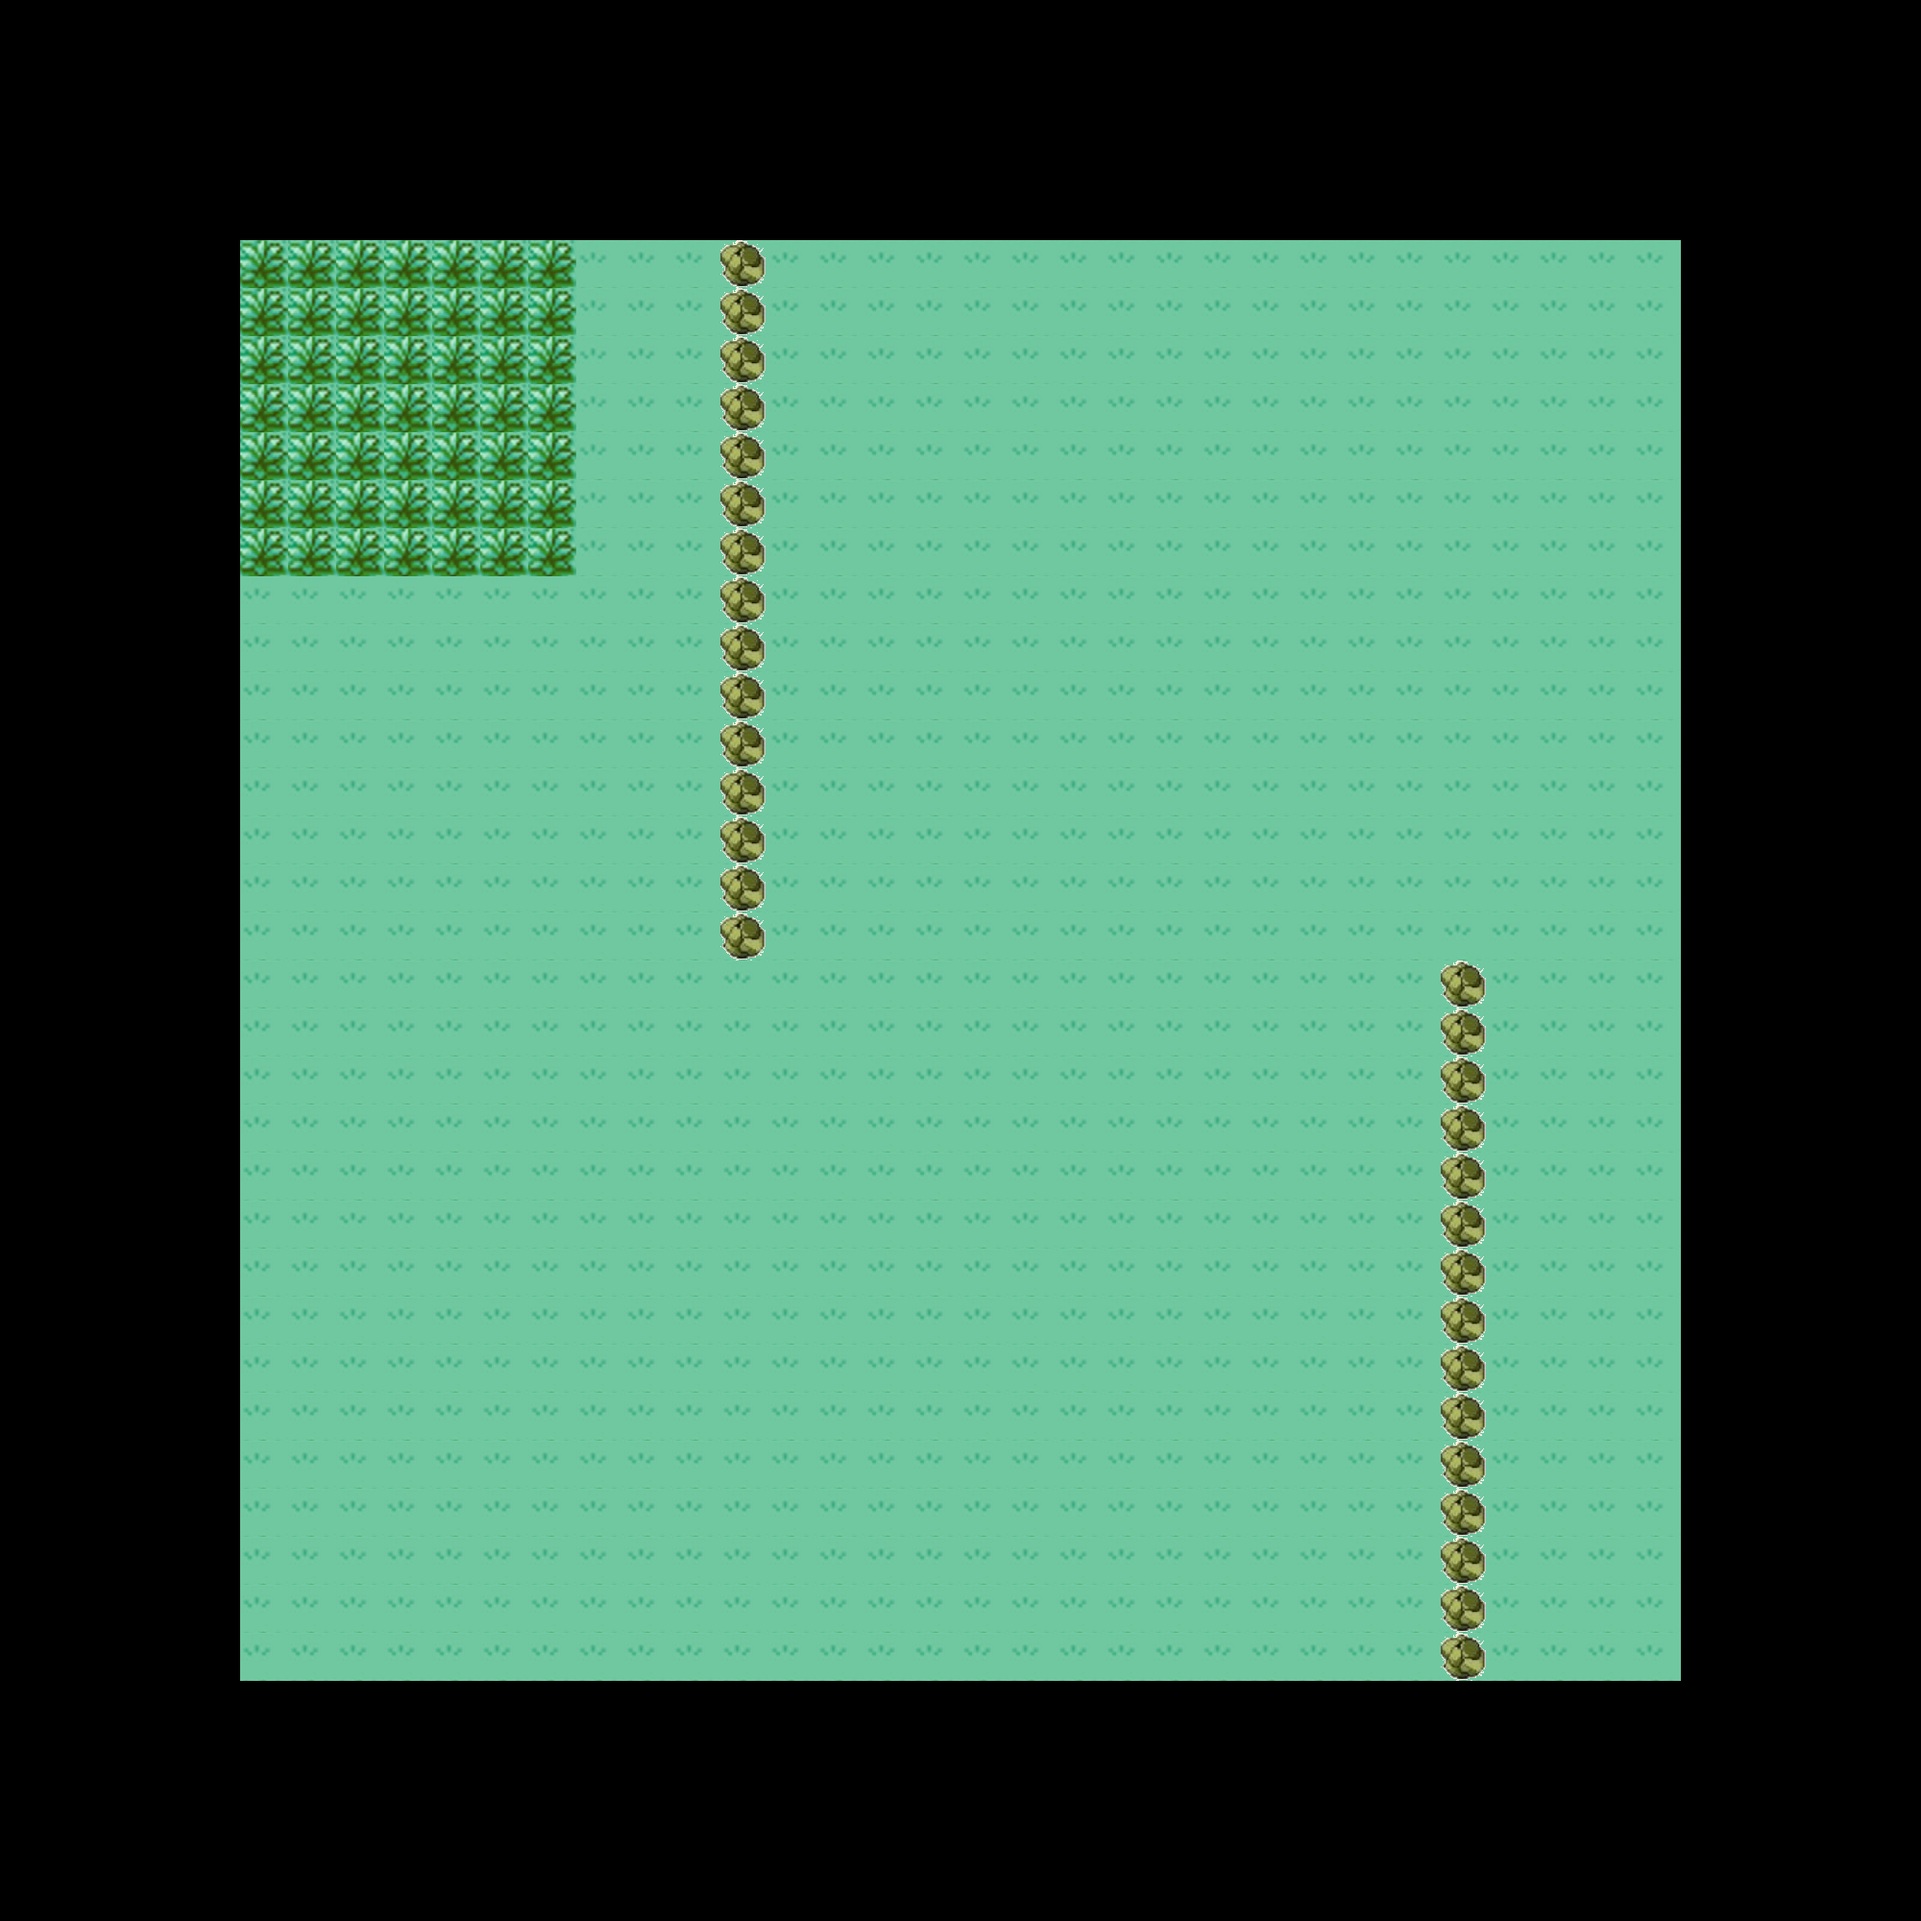
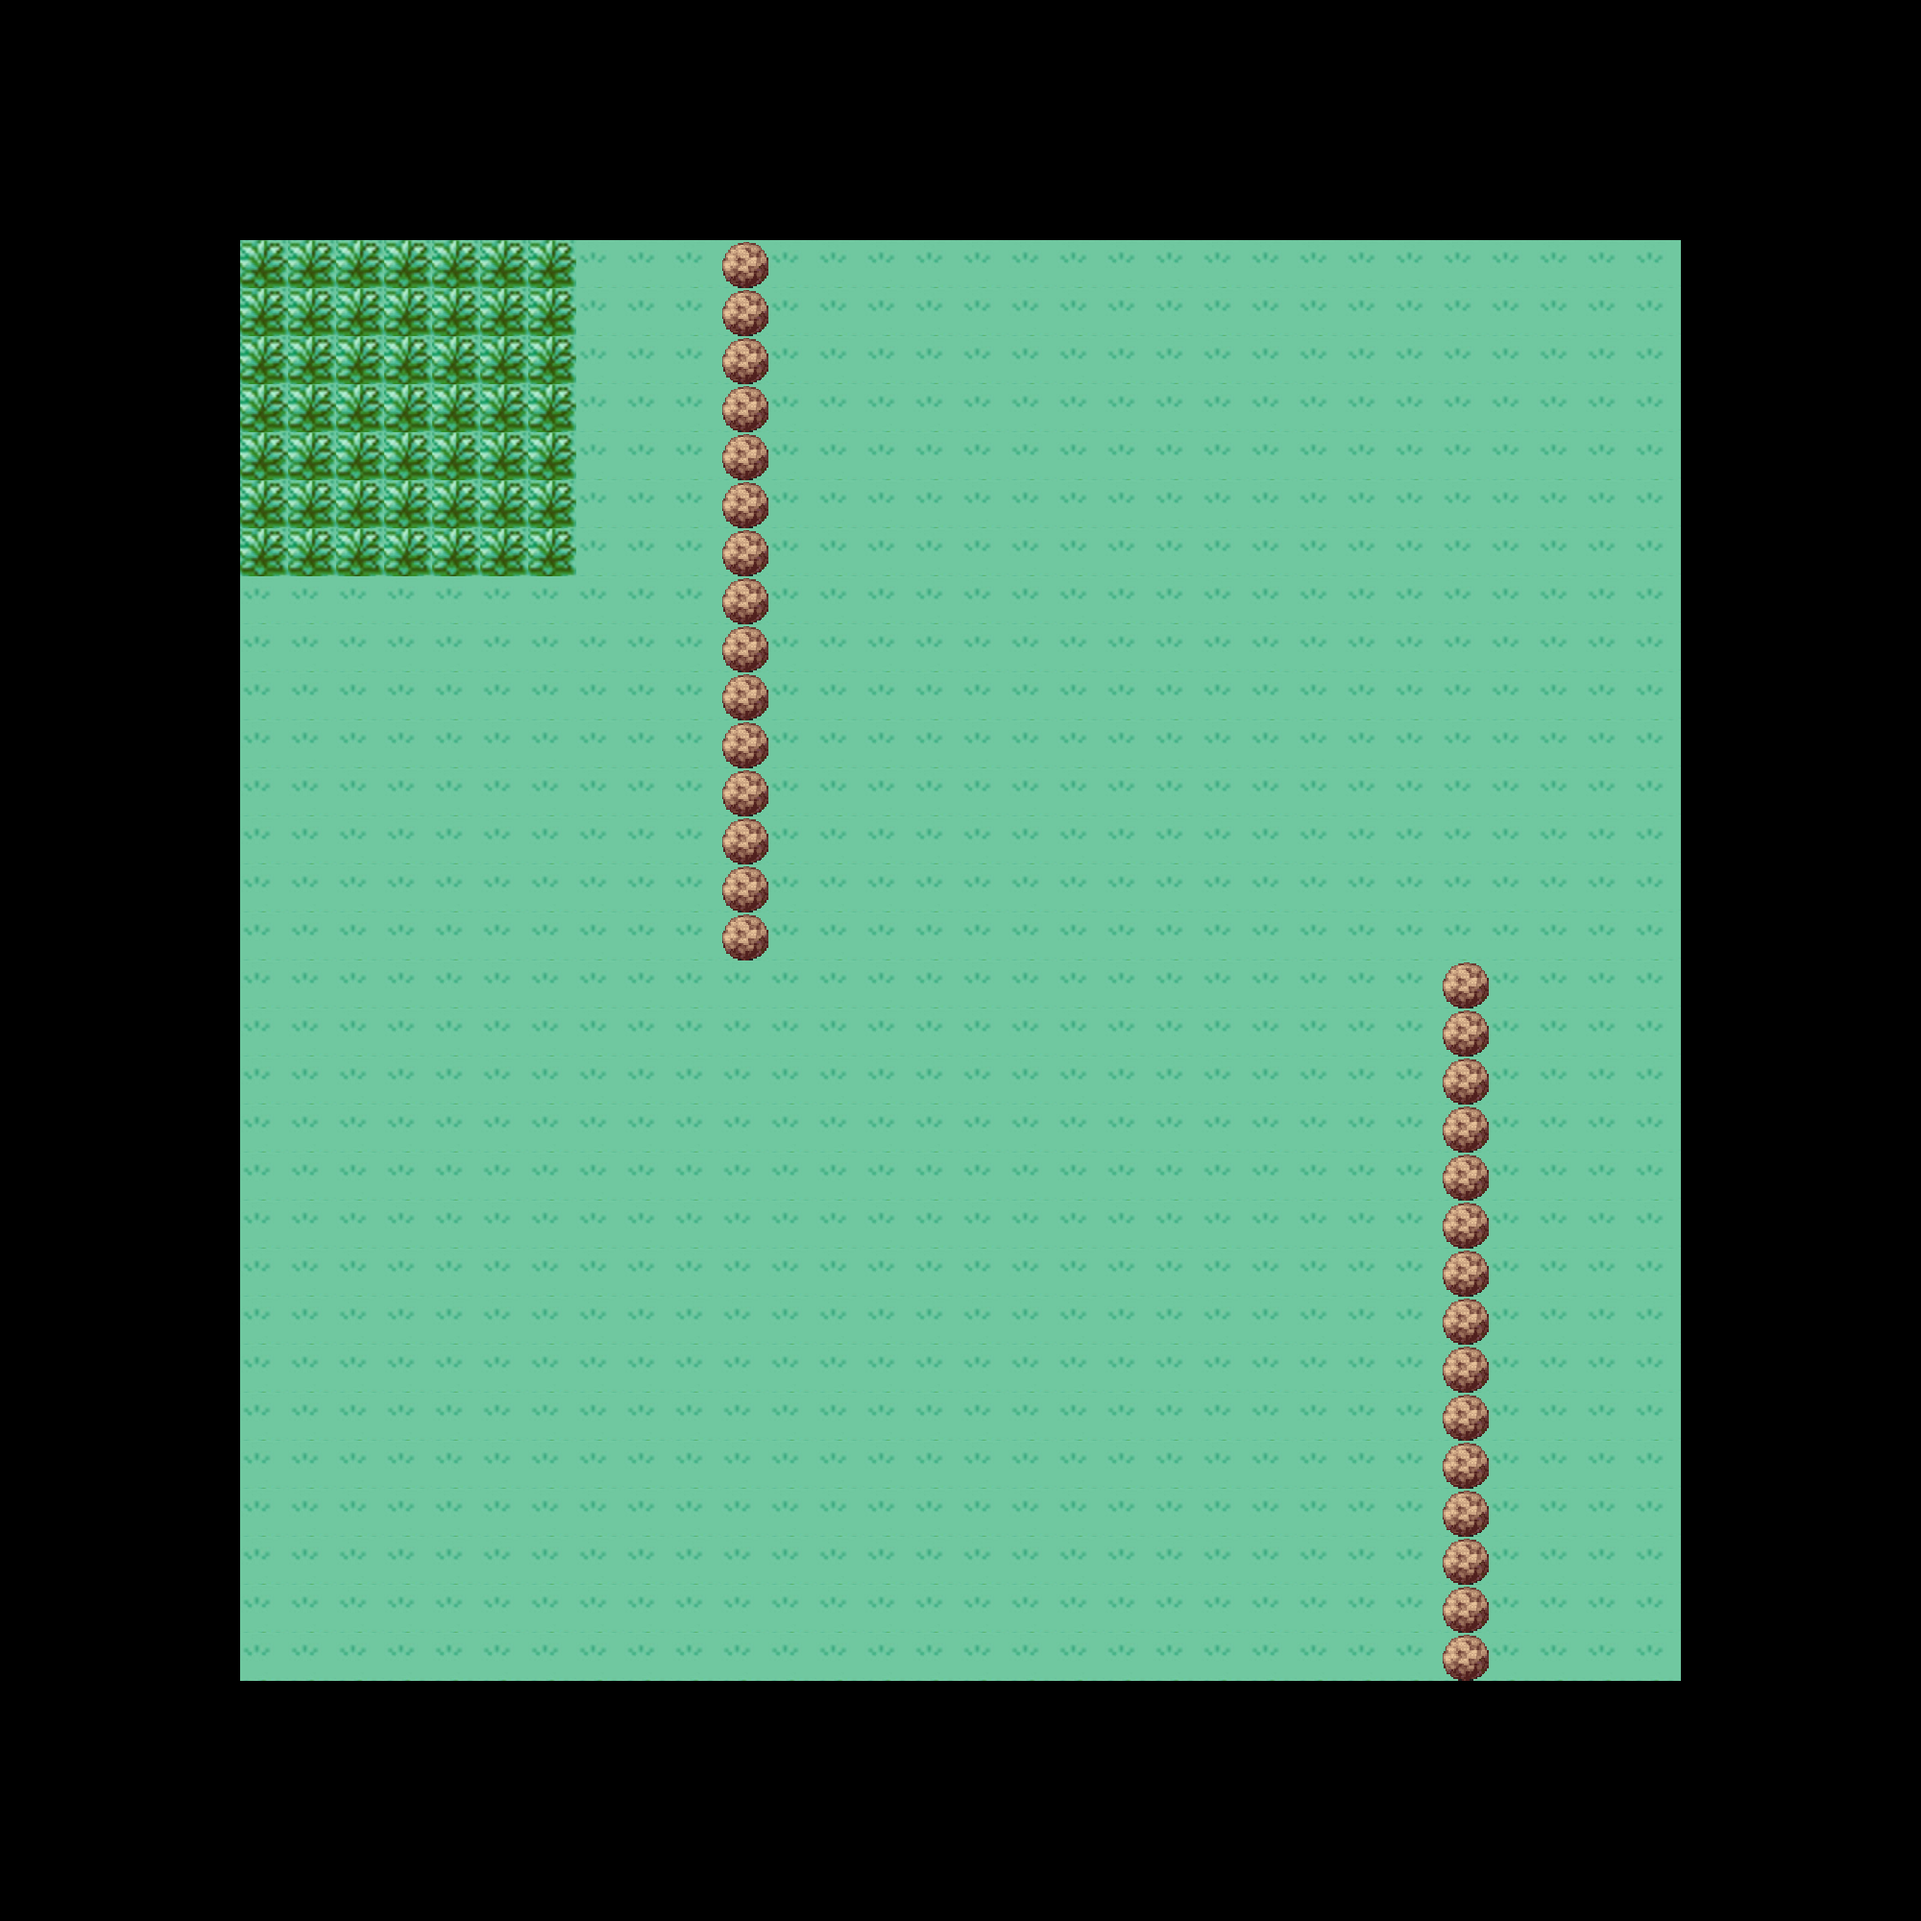
Transparent boulder's bitch

Changed region(s): [[0.744, 0.496, 0.775, 0.899], [0.372, 0.124, 0.403, 0.496]]

diff --git a/src/animationSandBox/DrawMap.java b/src/animationSandBox/DrawMap.java
@@ -21,6 +21,7 @@ import javax.swing.JPanel;
 public class DrawMap extends JPanel {
 	BufferedImage grass;
 	BufferedImage ground; 
+	BufferedImage rock1;
 	BufferedImage rock;
 	char[][] map;
 	
@@ -36,7 +37,8 @@ public class DrawMap extends JPanel {
 		try{
 			grass = ImageIO.read(new File("src/animationSandBox/GRASSBUSH.PNG"));
 			ground = ImageIO.read(new File("src/animationSandBox/GROUND.PNG"));
-			rock = ImageIO.read(new File("src/animationSandBox/newRock.PNG"));
+			rock1 = ImageIO.read(new File("src/animationSandBox/Boulder.png"));
+			rock = rock1.getSubimage(0, 0, 125, 125);
 		}
 		catch(IOException e){
 			System.out.println(e.getStackTrace());

diff --git a/src/view/AnimationPanel.java b/src/view/AnimationPanel.java
@@ -188,14 +188,14 @@ public class AnimationPanel extends JPanel {
 			west.add(left1);
 
 			south = new ArrayList<>();
-			south.add(down3);
-			south.add(down2);
 			south.add(down1);
+			south.add(down2);
+			south.add(down3);
 
 			east = new ArrayList<>();
-			east.add(right3);
-			east.add(right2);
 			east.add(right1);
+			east.add(right2);
+			east.add(right3);
 		} catch (IOException e) {
 			e.printStackTrace();
 		}
